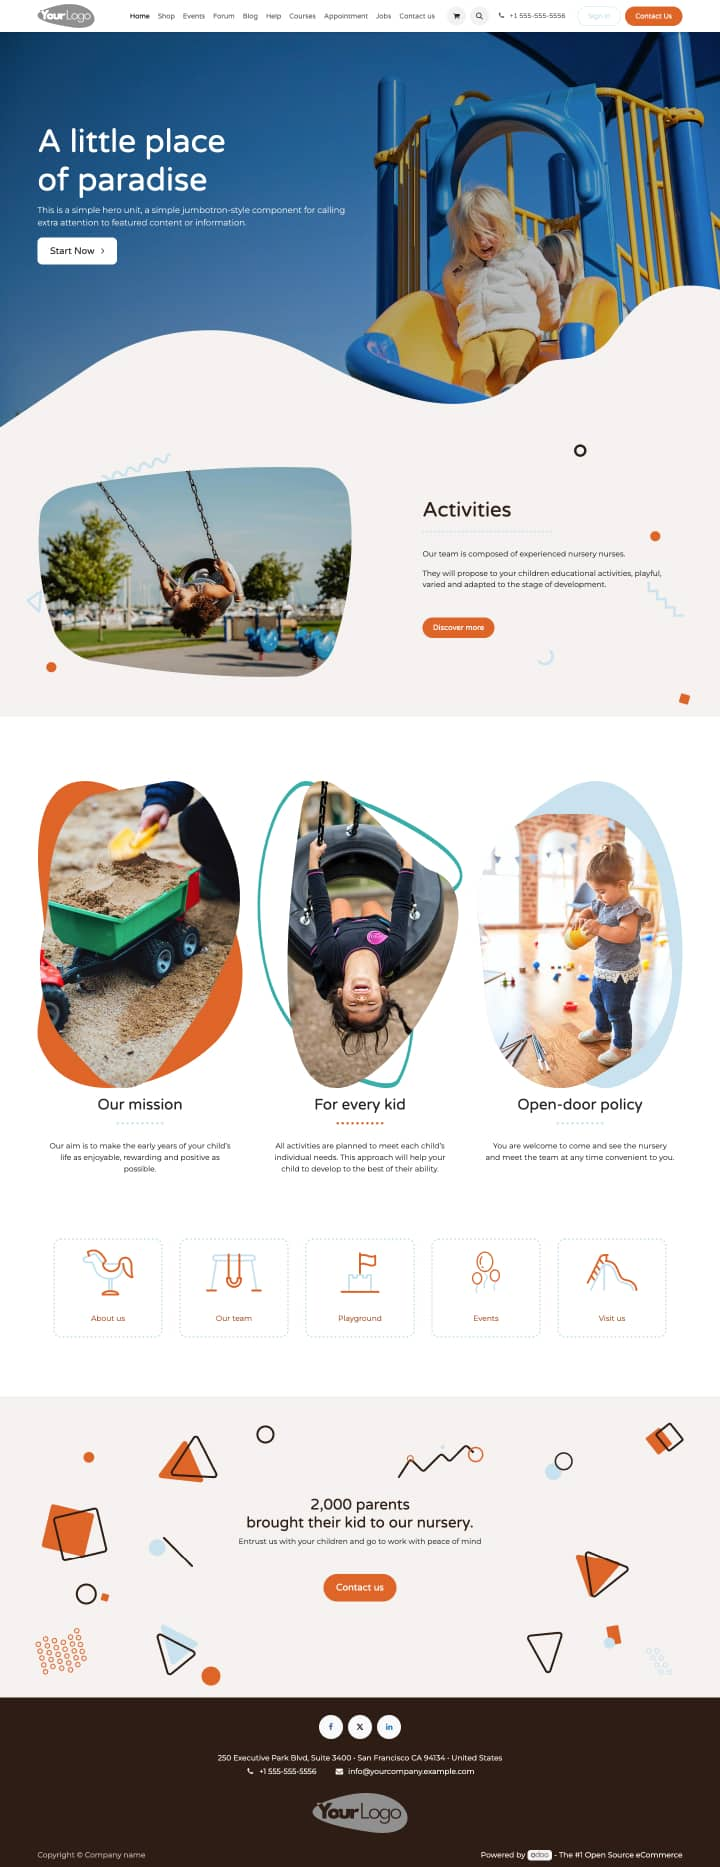
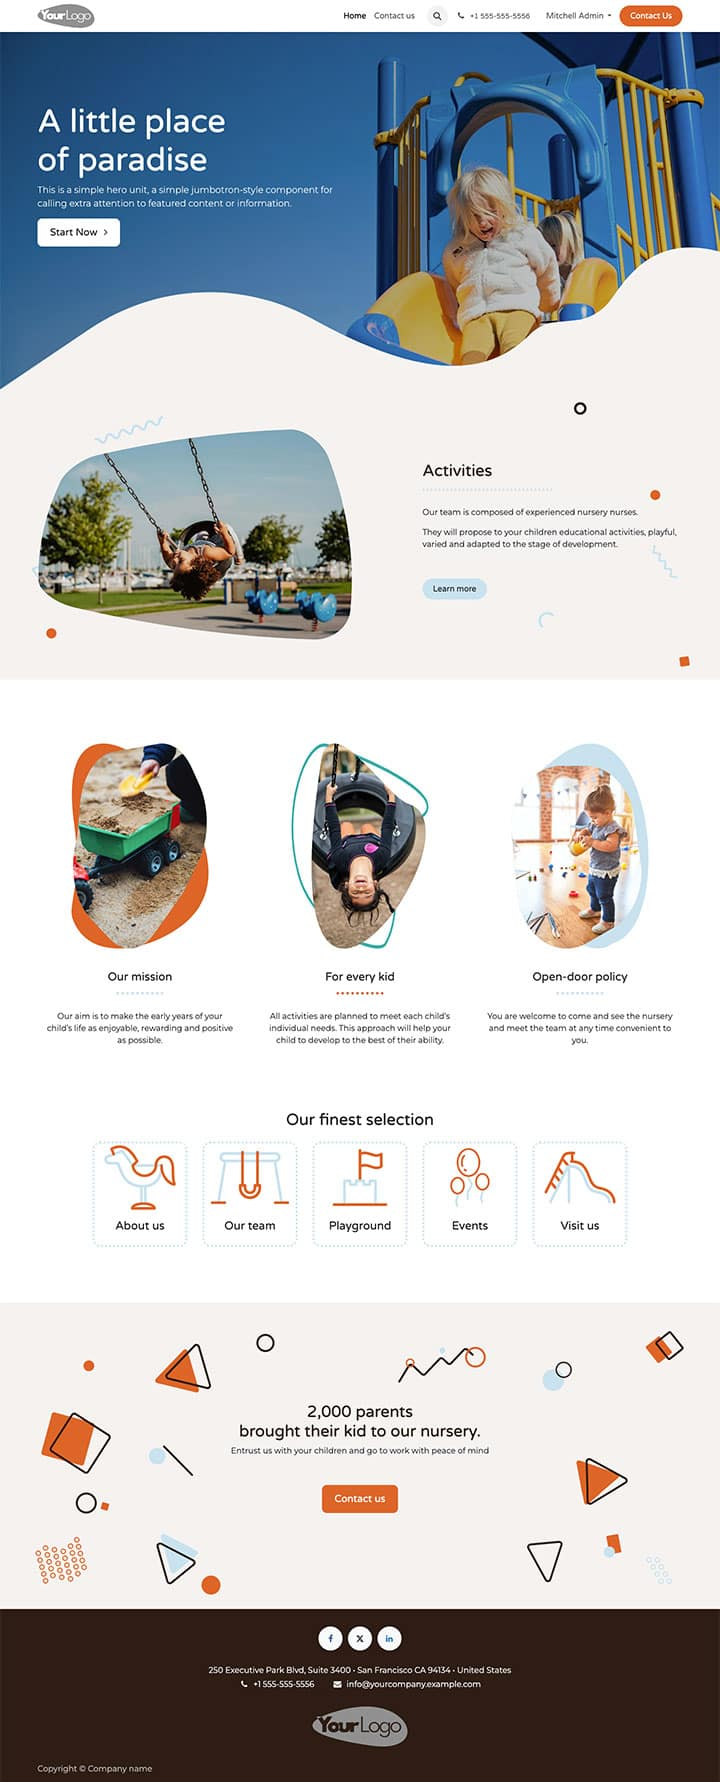
[FIX] theme_kiddo: refine the theme
Since the redesign of some snippets, some customizations have been
broken. This commit adapts these customizations.
This commit also adjusts some spacing and font sizes.

task-4178078
Part of task-4177978

diff --git a/theme_kiddo/static/src/scss/primary_variables.scss b/theme_kiddo/static/src/scss/primary_variables.scss
@@ -123,8 +123,6 @@ $o-website-values-palettes: (
     (
         'color-palettes-name': 'default-16',
 
-        'font-size-base': (14 / 16) * 1.075rem,
-        'header-font-size': .875rem,
         'logo-height': 3rem,
         'fixed-logo-height': 3rem,
         'btn-border-radius': 2rem,

diff --git a/theme_kiddo/__manifest__.py b/theme_kiddo/__manifest__.py
@@ -51,6 +51,7 @@
         'views/snippets/s_image_frame.xml',
         'views/snippets/s_wavy_grid.xml',
         'views/snippets/s_shape_image.xml',
+        'views/snippets/s_showcase.xml',
         'views/snippets/s_images_constellation.xml',
         'views/snippets/s_text_cover.xml',
         'views/snippets/s_empowerment.xml',
